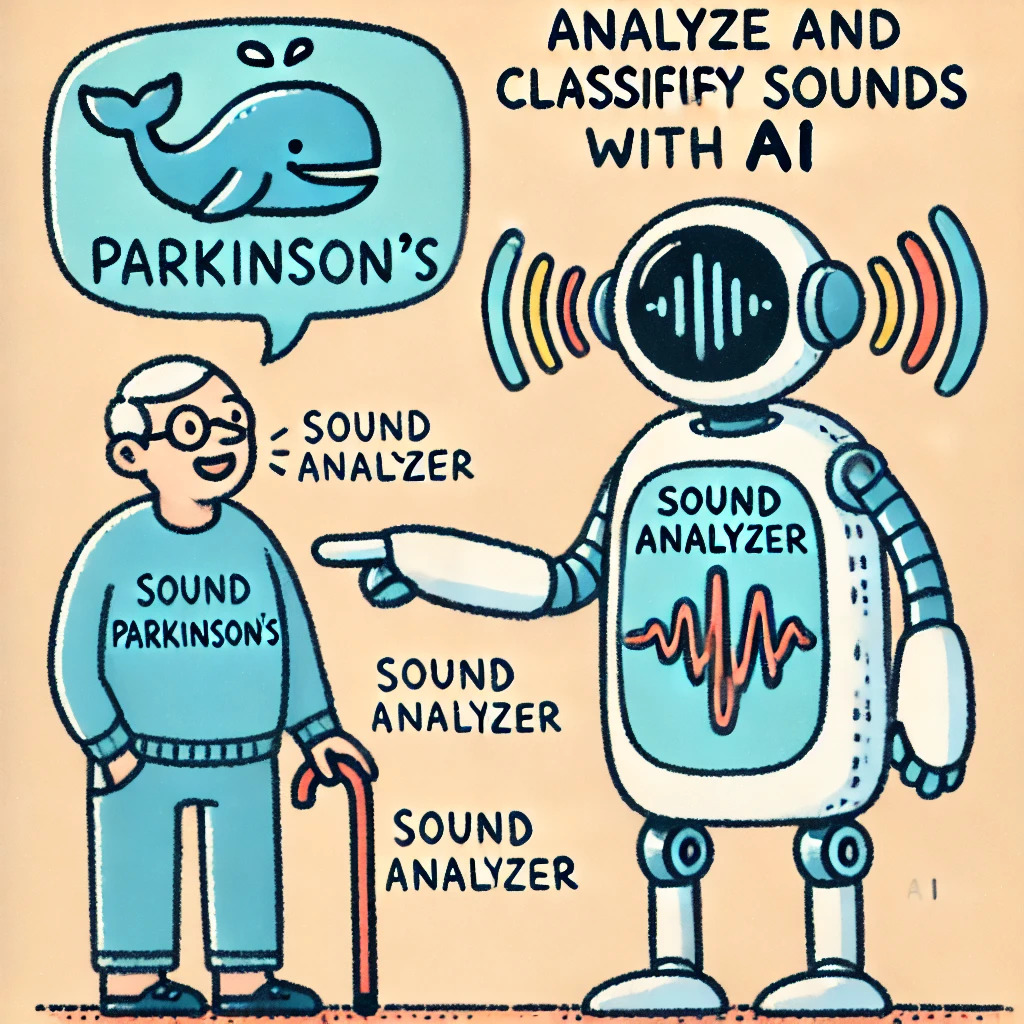
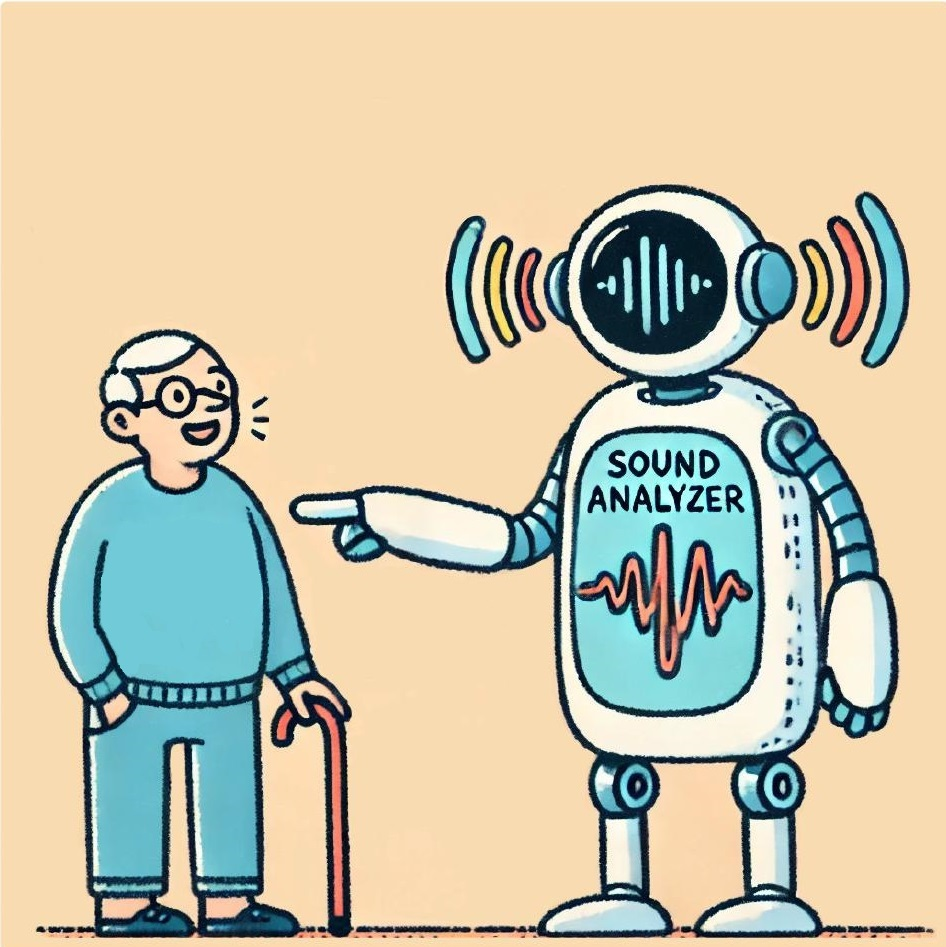
Update website image again

diff --git a/_pages/about.md b/_pages/about.md
@@ -12,7 +12,12 @@ redirect_from:
 
 # 👋🏼 Hello there, I'm Nadine!
 
-![Illustration of ML For Speech Classification](/images/sample-website-photo.jpg){: .align-center width="300px"}
+<br>
+
+<div style="text-align: center;">
+  ![Illustration of ML For Speech Classification](/images/sample-website-photo.jpg){: .align-center width="300px"}
+  <figcaption>Source: DALL-E</figcaption>
+</div>
 
 ## About Me
 

diff --git a/_pages/cv.md b/_pages/cv.md
@@ -17,4 +17,4 @@ Download a copy of Nadine El-Mufti's CV [<a href="https://njayem.github.io/files
 
 <br>
 
-<embed src="https://njayem.github.io/files/nadine-el-mufti-cv.pdf" type="application/pdf" width="100%" />
+<embed src="https://njayem.github.io/files/Nadine-El-Mufti-CV.pdf" type="application/pdf" width="100%" />
